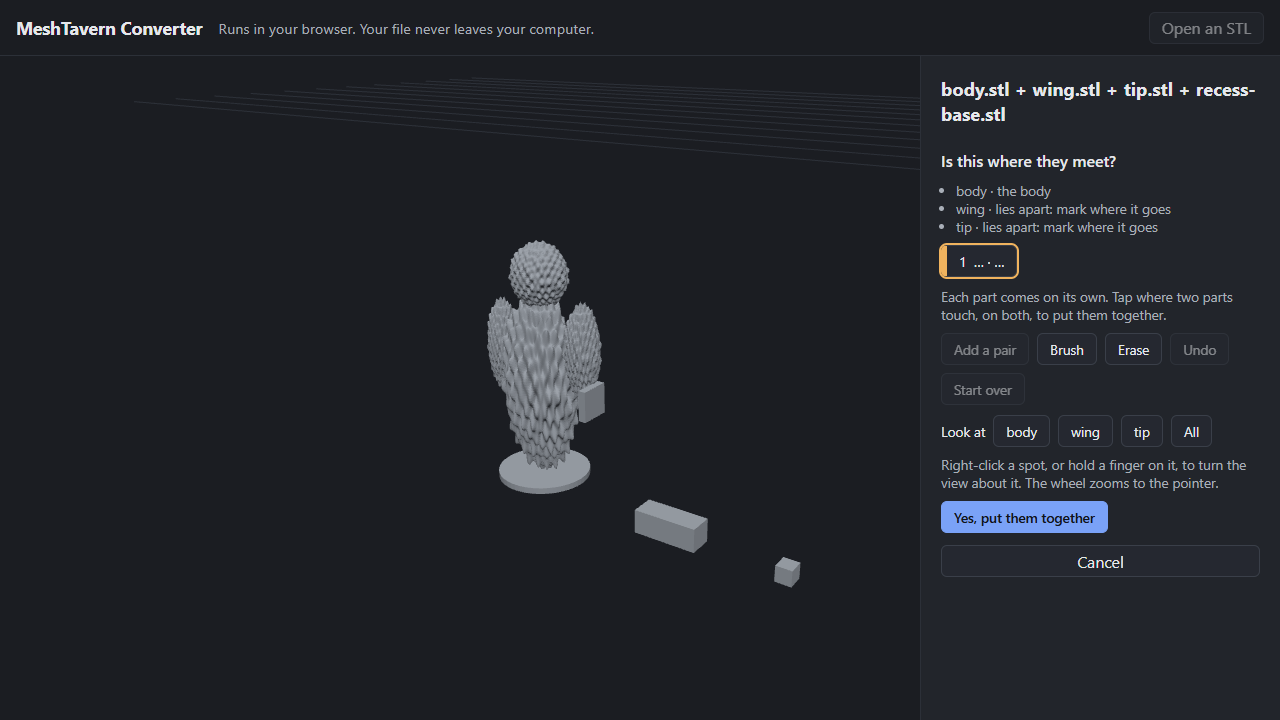
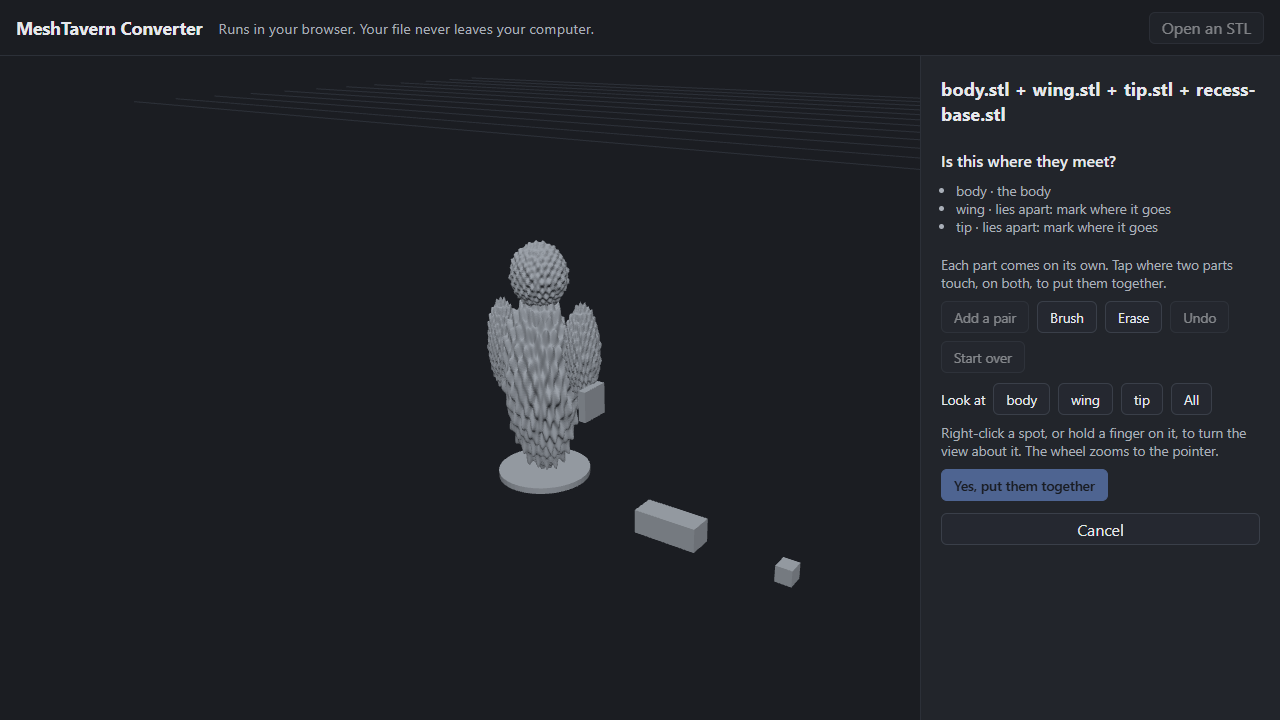
fix: a kit laid out for print is never converted as a pile (#93)
Confirmed with nothing marked, a kit laid out for print converted its
parts piled at the origin without a final view. It now always shows its
final view, and the page keeps Confirm disabled until every part other
than the body is placed by a pair. No chip before anything is marked.
The tap's vertex index is dropped with the trees before the size step.

Changed region(s): [[0.7188, 0.3361, 0.9688, 0.7944]]

diff --git a/e2e/parts.spec.ts b/e2e/parts.spec.ts
@@ -193,7 +193,7 @@ test('makes parts of one figure when there is no base, pulls them apart, refuses
 });
 
 /** A soup moved onto its own print plate: centred on the origin across x and y, on z = 0. */
-function onItsPlate(soup: Float32Array): Float32Array {
+function plateShift(soup: Float32Array): [number, number, number] {
   const min = [Infinity, Infinity, Infinity];
   const max = [-Infinity, -Infinity, -Infinity];
   for (let i = 0; i < soup.length; i += 3)
@@ -201,8 +201,14 @@ function onItsPlate(soup: Float32Array): Float32Array {
       min[k] = Math.min(min[k]!, soup[i + k]!);
       max[k] = Math.max(max[k]!, soup[i + k]!);
     }
-  return movedSoup(soup, [-(min[0]! + max[0]!) / 2, -(min[1]! + max[1]!) / 2, -min[2]!]);
+  return [-(min[0]! + max[0]!) / 2, -(min[1]! + max[1]!) / 2, -min[2]!];
 }
+const onItsPlate = (soup: Float32Array): Float32Array => movedSoup(soup, plateShift(soup));
+const shifted = (p: readonly number[], by: readonly number[]): [number, number, number] => [
+  p[0]! + by[0]!,
+  p[1]! + by[1]!,
+  p[2]! + by[2]!,
+];
 
 test('lays a kit exported for print in a row, with nothing proposed', async ({
   page,
@@ -233,6 +239,25 @@ test('lays a kit exported for print in a row, with nothing proposed', async ({
   expect(xs[1]).toBeGreaterThan(xs[0]!);
   expect(xs[2]).toBeGreaterThan(xs[1]!);
   await shoot(page, testInfo, 'parts-laid-in-a-row');
+  // Nothing marked, nothing to put together: the parts would convert piled at the origin.
+  await expect(page.locator('#meet-pairs .chip')).toHaveCount(0);
+  await expect(page.locator('#meet-confirm')).toBeDisabled();
+  // The wing onto the body: the tip still lies apart.
+  const [byBody, byWing, byTip] = [body, wing, tip].map(plateShift);
+  await page.evaluate((p) => window.__mt.tap(0, p), shifted(WINGED_FIGURE.joint, byBody!));
+  await page.evaluate((p) => window.__mt.tap(1, p), shifted(WINGED_FIGURE.joint, byWing!));
+  await expect(page.locator('#meet-hint')).toHaveText(COPY.markEveryPart);
+  await expect(page.locator('#meet-confirm')).toBeDisabled();
+  // The tip onto the wing: every part placed.
+  await page.evaluate(() => window.__mt.addPair());
+  await page.evaluate((p) => window.__mt.tap(1, p), shifted(WINGED_FIGURE.tipJoint, byWing!));
+  await page.evaluate((p) => window.__mt.tap(2, p), shifted(WINGED_FIGURE.tipJoint, byTip!));
+  await expect(page.locator('#meet-confirm')).toBeEnabled();
+  await page.evaluate(() => window.__mt.fitMeeting());
+  const fitted = (await page.evaluate(() => window.__mt.state.question!)) as MeetAsked;
+  expect(fitted.stage).toBe('fitted');
+  expect(fitted.parts.map((p) => p.source)).toEqual(['body', 'marked', 'marked']);
+  await shoot(page, testInfo, 'parts-laid-out-joined');
   await page.evaluate(() => window.__mt.cancel());
 });
 
@@ -257,8 +282,13 @@ test('drops the joints when another base is chosen after them', async ({ page })
   await page.evaluate(() => window.__mt.chooseBase(1));
   const again = await question(page, base.serial);
   expect(again).toMatchObject({ kind: 'meet', about: 'parts', proposed: true, marks: null });
+  // The body and the recess base, both generated on the origin, read as laid out for print:
+  // confirmed with nothing marked, the final view comes before the next question.
   await page.evaluate(() => window.__mt.confirmMeet());
-  const next = await question(page, again.serial);
+  const final = await question(page, again.serial);
+  expect(final).toMatchObject({ kind: 'meet', about: 'parts', stage: 'fitted' });
+  await page.evaluate(() => window.__mt.confirmMeet());
+  const next = await question(page, final.serial);
   expect(next).toMatchObject({ kind: 'up', role: 'base', file: 1 });
   expect(await page.evaluate(() => window.__mt.state.error)).toBeNull();
   await page.evaluate(() => window.__mt.cancel());

diff --git a/src/page/main.ts b/src/page/main.ts
@@ -1169,7 +1169,11 @@ function showQuestion(): void {
   }
   if (pairsStop) {
     showPairChips(question);
-    meetInputs.hint.textContent = describePairs(question);
+    const unplaced = unplacedParts(question);
+    meetInputs.hint.textContent =
+      unplaced > 0 && !question.proposed && !question.note
+        ? COPY.markEveryPart
+        : describePairs(question);
     // Parts laid out for print have no place of their own to show.
     meetInputs.apart.hidden =
       question.about !== 'parts' || !question.apart || question.inPlace === false;
@@ -1181,10 +1185,10 @@ function showQuestion(): void {
     meetInputs.undo.disabled = question.proposed && question.marks === null;
     meetInputs.clear.disabled = question.proposed;
     meetInputs.confirm.textContent = COPY.confirmPairs;
-    // A pair with one side marked is not a pair yet.
-    meetInputs.confirm.disabled = question.pairs.some(
-      ({ on, of }) => (on === null) !== (of === null),
-    );
+    // A pair with one side marked is not a pair yet; a kit laid out for print is a pile until
+    // every part is marked.
+    meetInputs.confirm.disabled =
+      unplaced > 0 || question.pairs.some(({ on, of }) => (on === null) !== (of === null));
     return;
   }
   const placement = question.placement;
@@ -1204,9 +1208,11 @@ function showQuestion(): void {
 
 /** One chip per pair at the pairs stop, in the pair's colour; the selected one takes the next tap. */
 function showPairChips(question: AskedMeet): void {
+  // A chip for each pair, and one for a new pair once Add a pair selected it; none before anything is marked.
   const count = Math.min(
     pairsOf(question),
-    Math.max(question.pairs.length, state.meet.pair + 1, 1),
+    question.pairs.length +
+      (question.pairs.length > 0 && state.meet.pair >= question.pairs.length ? 1 : 0),
   );
   const side = (patch: PatchSummary | null): string => (patch ? partName(nameOf(patch.file)) : '…');
   const chips: HTMLElement[] = [];
@@ -1253,6 +1259,16 @@ function fitOf(question: AskedMeet): Fit | null {
 
 /** Whether the pairs stop shows the parts apart: as the person chose, always for parts laid out for print. */
 const showsApart = (question: AskedMeet): boolean => state.meet.apart || question.inPlace === false;
+
+/**
+ * The parts of a kit laid out for print that no complete pair places yet: they lie at the
+ * origin, piled on the body. Zero for every other question.
+ */
+function unplacedParts(question: AskedMeet): number {
+  if (question.about !== 'parts' || question.inPlace !== false) return 0;
+  const placed = new Set(question.pairs.flatMap(({ on, of }) => (on && of ? [of.file] : [])));
+  return question.roles.figureFiles.slice(1).filter((file) => !placed.has(file)).length;
+}
 
 /** How many pairs the meet question on screen takes. */
 const pairsOf = (question: AskedMeet): number =>

diff --git a/src/lib/pipeline/run.ts b/src/lib/pipeline/run.ts
@@ -55,6 +55,7 @@ import {
   startMeeting,
   summaryOf,
   surfaceIndexOf,
+  dropSurfaceIndex,
   type Hit,
   type MarkingAction,
   type Meeting,
@@ -1362,7 +1363,9 @@ export async function runPipeline(
           roles: rolesOf(pairing),
         };
       },
-      skipFinal: (state) => !state.draft?.pairs.some(complete),
+      // A kit in place with nothing marked is the picture just confirmed; a kit laid out for
+      // print is a pile at the origin until its parts are marked: always shown before it converts.
+      skipFinal: (state) => scenes.inPlace && !state.draft?.pairs.some(complete),
     });
     return {
       source: answered.placed,
@@ -1762,6 +1765,7 @@ export async function runPipeline(
 
   // The trees and patches of the questions are not needed any more.
   trees = null;
+  for (const mesh of meshes) dropSurfaceIndex(mesh);
   patches.clear();
   const placed = run(
     'size',

diff --git a/src/lib/pipeline/marks.ts b/src/lib/pipeline/marks.ts
@@ -193,6 +193,11 @@ const surfaceIndexes = new WeakMap<IndexedMesh, SurfaceIndex>();
  * from triangle to triangle through it, so its cost follows the patch it takes, not everything
  * within reach (61 000 triangles within 3 mm on a dense 1.25 M-triangle sculpt).
  */
+/** Releases a mesh's tap index: the pipeline drops it with the trees, before the size step. */
+export function dropSurfaceIndex(mesh: IndexedMesh): void {
+  surfaceIndexes.delete(mesh);
+}
+
 export function surfaceIndexOf(mesh: IndexedMesh): SurfaceIndex {
   const known = surfaceIndexes.get(mesh);
   if (known) return known;

diff --git a/src/lib/pipeline/run.test.ts b/src/lib/pipeline/run.test.ts
@@ -1113,6 +1113,8 @@ describe('runPipeline asking where the parts meet (#93)', () => {
     // Side by side: the wing to the right of the body.
     const [atBody, atWing] = parts.apart!.shown;
     expect(atWing!.translation[0]).toBeGreaterThan(atBody!.translation[0]);
+    // Confirmed with nothing marked, the pile is shown before it converts: no silent placement.
+    expect(ask.meets[1]).toMatchObject({ about: 'parts', stage: 'fitted' });
   }, 120_000);
 
   it('makes the files parts of one figure when no base is chosen, and asks nothing about a base', async () => {

diff --git a/src/lib/pipeline/memory.ts b/src/lib/pipeline/memory.ts
@@ -32,7 +32,7 @@ export const FIXED_BYTES = 360 * 1024 ** 2;
  * The search tree and the tap's vertex-to-triangle index of a file at the meet questions (#93,
  * patches design note §4), per triangle: the tree's order, and per node of six triangles its box,
  * child, first and count (28 bytes); the index's list, stamp and offsets (about 18). Every file of
- * a pair or a kit gets both; the trees are released before the size step.
+ * a pair or a kit gets both; both are released before the size step.
  */
 export const TREE_BYTES_PER_TRIANGLE = 46;
 

diff --git a/src/page/page-state.ts b/src/page/page-state.ts
@@ -90,6 +90,7 @@ export const COPY = {
   startOver: 'Start over',
   pullApart: 'Pull apart',
   showInPlace: 'Show in place',
+  markEveryPart: 'Mark where every part goes, then put them together.',
   backToMarking: 'Back to marking',
   lookAt: 'Look at',
   viewAll: 'All',
